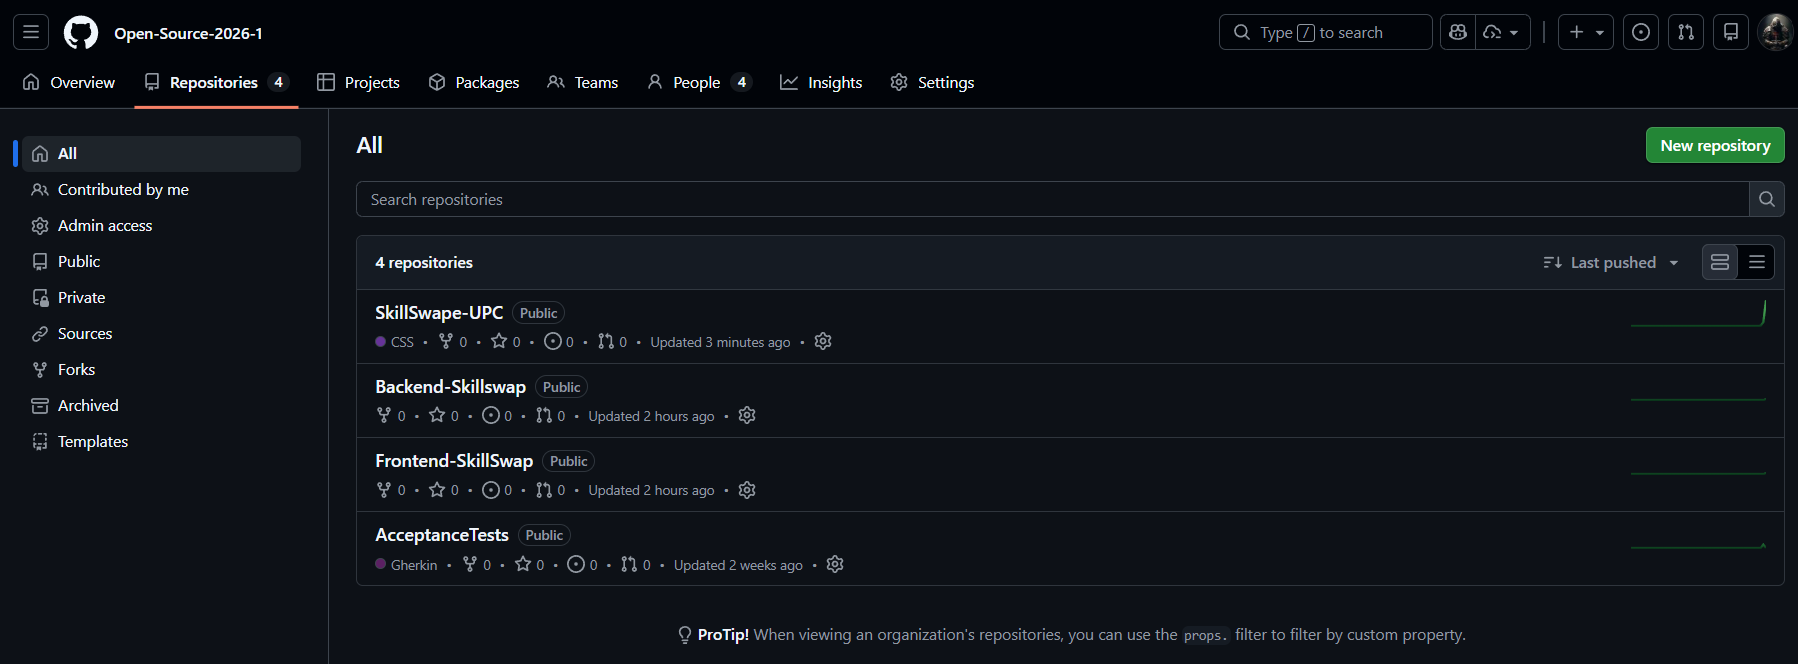
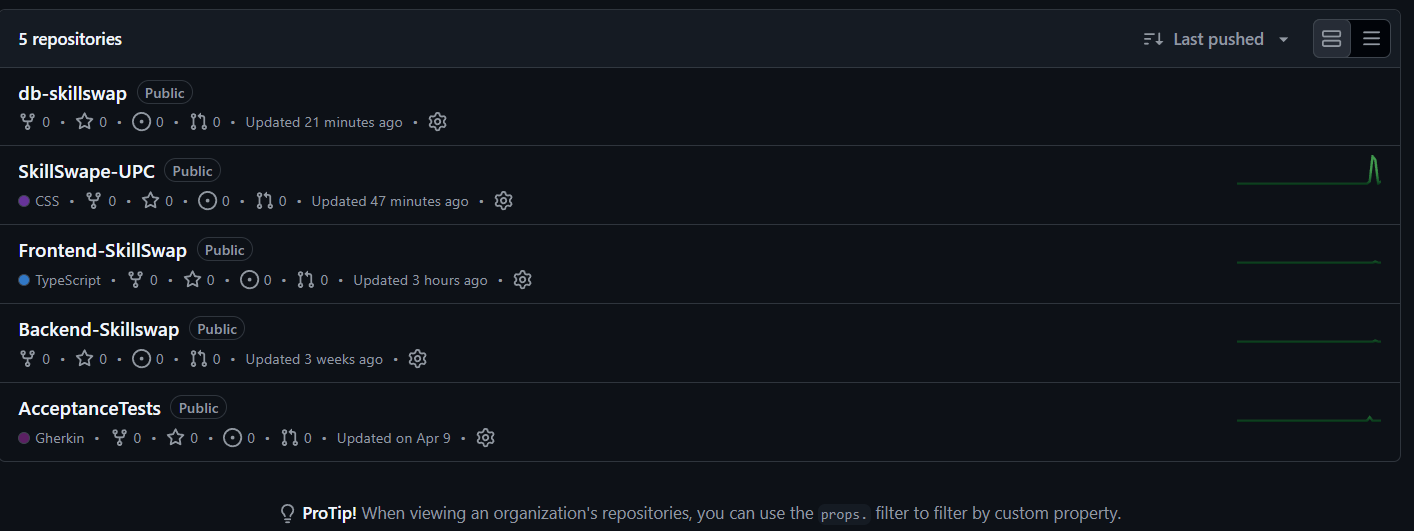
se actuliza md

diff --git a/1asi0729-11990-Skillswap-report-avn01.md b/1asi0729-11990-Skillswap-report-avn01.md
@@ -2428,13 +2428,15 @@ Para administrar el código fuente del proyecto, el equipo empleará Git como si
 #### Repositorios GitHub
 
 * **Landing Page:** Repositorio público para la página de presentación del producto. 
-  * Enlace: [https://github.com/Open-Source-2026-1/SkillSwape-UPC.git ](#)
+  * Enlace: https://github.com/Open-Source-2026-1/SkillSwape-UPC.git 
 * **Frontend Web Application:** Repositorio para la aplicación web transaccional (Desarrollada en Typescript/Angularr) donde interactúan los estudiantes y profesores.
-  * Enlace: *[https://github.com/Open-Source-2026-1/Frontend-SkillSwap.git]*
+  * Enlace: https://github.com/Open-Source-2026-1/Frontend-SkillSwap.git
 * **Web Services:**  Repositorio para la API RESTful desarrollada en Java con Spring Boot, incluyendo la implementación de controladores, servicios y repositorios, así como pruebas unitarias y de integración.
-  * Enlace: *[https://github.com/Open-Source-2026-1/Backend-Skillswap.git]*
+  * Enlace: https://github.com/Open-Source-2026-1/Backend-Skillswap.git
 * **Acceptance Test:** Repositorio en el que se encuentran los archivos (`.feature`) en formato Gherkin.
-  * Enlace: [https://github.com/Open-Source-2026-1/AcceptanceTests.git](#)
+  * Enlace: https://github.com/Open-Source-2026-1/AcceptanceTests.git
+* **Base de datos:** Repositorio en el que se encuentra el archivo json con la base de datos del proyecto.
+  * Enlace: https://github.com/Open-Source-2026-1/db-skillswap.git
 
 * **Open-Source-2026-1:** Enlace de la organización en el que se encuentran los repositorios
   * Enlace: [https://github.com/Open-Source-2026-1](#)
@@ -3045,12 +3047,12 @@ Esta sección detalla los aspectos principales de la reunión de planificación 
 | **Location**                           | Reunión virtual (Google Meet)  |
 | **Prepared By**                        | Alberca Saavedra, Victor Manuel  |
 | **Attendees (to planning meeting)**    | Alberca Saavedra, Victor Manuel / Komatsu Dueñas, David / Vargas Alarcón, Santiago Enrique / Becerra Ninahuanca, Luis Ángel / Pacheco Lavado, Rafael Agustín           |
-| **Sprint n – 1 Review Summary**        | Se completó exitosamente la Landing Page institucional de Skillswap, incluyendo soporte bilingüe y diseño responsivo.   |
-| **Sprint n – 1 Retrospective Summary** | El equipo acordó priorizar bounded contexts frontend desacoplados y trabajar con Fake APIs para acelerar el desarrollo visual.   |
+| **Sprint n – 2 Review Summary**        | Se completó exitosamente la Landing Page institucional de Skillswap, incluyendo soporte bilingüe y diseño responsivo.   |
+| **Sprint n – 2 Retrospective Summary** | El equipo acordó priorizar bounded contexts frontend desacoplados y trabajar con Fake APIs para acelerar el desarrollo visual.   |
 | **Sprint Goal & User Stories**         |      |
 | **Sprint 2 Goal**                      | Nuestro enfoque está en desarrollar las interfaces frontend de los bounded contexts principales de Skillswap mediante componentes reutilizables, tablas CRUD, formularios y datos mockeados. Creemos que esto permitirá validar la arquitectura visual del sistema y la experiencia de usuario antes de integrar lógica backend real. Esto se confirmará cuando los usuarios puedan navegar fluidamente entre los módulos Discovery, Workspace, Reputation, Moderation y Learning & Assessment utilizando Fake APIs y navegación SPA sin errores visuales. |
-| **Sprint 2 Velocity** | 34 Story Points |
-| **Sum of Story Points**| 34 |
+| **Sprint 2 Velocity** | 42 Story Points |
+| **Sum of Story Points**| 42 |
 
 
 *(Tabla 22.  Tabla de  Sprint Planning 2  - Elaboración propia.)*
@@ -3098,10 +3100,12 @@ Se presenta la tabla de Sprint 2 que logramos avanzar con el grupo:
 | **US14** | Create official Quiz                            | Academic Quality Assurance             |          High          |    5   |
 | **US16** | Solve interactive validation Quiz               | Academic Quality Assurance             |          High          |    5   |
 | **US17** | Rate and leave a review for the tutor           | Rating and Monetization                |         Medium         |    3   |
+| **US18** | Make a voluntary monetary donation              | Rating and Monetization                |         Medium         |    5   |
+| **US19** | View Virtual Wallet and balance                 | Rating and Monetization                |         Medium         |    3   |
 | **US21** | Cancel pending or scheduled reservation         | Rating and Monetization                |         Medium         |    2   |
 | **US24** | Report misconduct                               | Dashboard and Moderation               |         Medium         |    3   |
 | **US25** | Review and resolve academic disputes            | Dashboard and Moderation               |         Medium         |    3   |
-|          |                                                 |                                        | **Total Story Points** | **34** |
+|          |                                                 |                                        | **Total Story Points** | **42** |
 
 
 A continuación, se presenta una captura de pantalla del estado actual de nuestro tablero de control para el Sprint 2:
@@ -3118,16 +3122,18 @@ A continuación, se presenta una captura de pantalla del estado actual de nuestr
 | :------------- | :--------------------------------------------- | :------------------- | :------------------- | :--------------------------------------------- | :--------------------: | :-------------- | :---------- |
 | **User Story** |                                                | **Work-Item / Task** |                      |                                                |                        |                 |             |
 | **Id**         | **Title**                                      | **Id**               | **Title**            | **Description**                                | **Estimation (Hours)** | **Assigned To** | **Status**  |
-| **US06**       | Apply filters to search results                | T02                  | Filter Components    | Development of filter components               |          2 hr          | David           | DONE        |
-| **US08**       | Send tutoring reservation request              | T03                  | Reservation Form     | Form layout and modal creation                 |          2 hr          | Victor          | DONE        |
-| **US09**       | Accept or reject reservation request           | T04                  | Action Buttons       | Accept and reject buttons UI                   |          1 hr          | Victor           | TO DO        |
-| **US10**       | Asynchronous internal chat for the reservation | T05                  | Chat Interface       | Internal asynchronous chat UI                  |          3 hr          | Victor          | IN PROGRESS |
-| **US14**       | Create official Quiz                           | T06                  | Quiz Form            | Quiz creation form implementation              |          3 hr          | Rafael          | DONE        |
-| **US16**       | Solve interactive validation Quiz              | T07                  | Quiz Resolution UI   | Quiz solving interface                         |          3 hr          | David           | IN PROGRESS |
-| **US17**       | Rate and leave a review for the tutor          | T08                  | Rating System UI     | Star rating component implementation           |          2 hr          | Santiago        | DONE        |
-| **US21**       | Cancel pending or scheduled reservation        | T09                  | Cancel Button UI     | Reservation cancellation interface             |          2 hr          | Victor          | IN PROGRESS |
-| **US24**       | Report misconduct                              | T10                  | Report Form          | Misconduct report interface                    |          2 hr          | Luis          | DONE        |
-| **US25**       | Review and resolve academic disputes           | T11                  | Moderation Table     | Dispute table and details view                 |          2 hr          | Luis           | IN PROGRESS |
+| **US06**       | Apply filters to search results                | T02                  | Filter Components    | Development of filter components               |          2 hr          | David           | DONE                 |
+| **US08**       | Send tutoring reservation request              | T03                  | Reservation Form     | Form layout and modal creation                 |          2 hr          | Victor          | DONE                 |
+| **US09**       | Accept or reject reservation request           | T04                  | Action Buttons       | Accept and reject buttons UI                   |          1 hr          | Victor           | TO DO               |
+| **US10**       | Asynchronous internal chat for the reservation | T05                  | Chat Interface       | Internal asynchronous chat UI                  |          3 hr          | Victor          | IN PROGRESS          |
+| **US14**       | Create official Quiz                           | T06                  | Quiz Form            | Quiz creation form implementation              |          3 hr          | David          | DONE                  |
+| **US16**       | Solve interactive validation Quiz              | T07                  | Quiz Resolution UI   | Quiz solving interface                         |          3 hr          | David           | IN PROGRESS          |
+| **US17**       | Rate and leave a review for the tutor          | T08                  | Rating System UI     | Star rating component implementation           |          2 hr          | Santiago        | DONE                 |
+| **US18**       | Rate and leave a review for the tutor          | T08                  | Donation UI     | Star rating component implementation                |          2 hr          | Rafael        | IN PROGRESS              |
+| **US19**       | Rate and leave a review for the tutor          | T08                  | Donation UI    | Star rating component implementation                 |          2 hr          | Rafael        | IN PROGRESS              |
+| **US21**       | Cancel pending or scheduled reservation        | T09                  | Cancel Button UI     | Reservation cancellation interface             |          2 hr          | Victor          | IN PROGRESS          |
+| **US24**       | Report misconduct                              | T10                  | Report Form          | Misconduct report interface                    |          2 hr          | Luis          | DONE                   |
+| **US25**       | Review and resolve academic disputes           | T11                  | Moderation Table     | Dispute table and details view                 |          2 hr          | Luis           | IN PROGRESS           |
 
 
 
@@ -3160,12 +3166,12 @@ Cada integrante participó activamente en el desarrollo de componentes específi
 *(Tabla 25.  Tabla de  Development Evidence for Sprint Review - Elaboración propia.)*
 
 <figure style="text-align: center; margin-bottom: 40px;">
-  <img src="public/assets/images-doc/" alt="Historial de Commits" width="800" style="margin-bottom: 20px;">
+  <img src="public/assets/images-doc/sprint2-commit1.png" alt="Historial de Commits" width="800" style="margin-bottom: 20px;">
   <img src="public/assets/images-doc/" alt="Historial de Commits" width="800" style="margin-bottom: 20px;">
   <img src="public/assets/images-doc/" alt="Historial de Commits" width="800" style="margin-bottom: 20px;">
   <img src="public/assets/images-doc/" alt="Historial de Commits" width="800">
   <figcaption style="margin-top: 10px; font-style: italic;">
-    Figura 108. Historial de Commits - Elaboración propia. Nota: Estos son algunos de los commits realizados por los integrantes en sus respectivas ramas, siguiendo la convención de Conventional Commits.
+    Figura. Historial de Commits - Elaboración propia. Nota: Estos son algunos de los commits realizados por los integrantes en sus respectivas ramas, siguiendo la convención de Conventional Commits.
   </figcaption>
 </figure>
 
@@ -3337,6 +3343,8 @@ En conjunto, estas evidencias demuestran la disponibilidad del frontend de Skill
  LINK-Reputation SystemE: **https://github.com/Open-Source-2026-1/SkillSwape-UPC.git**
  
  LINK-Payment & WalletE: **https://github.com/Open-Source-2026-1/SkillSwape-UPC.git**
+
+**Enlace del repositorio de las db de los proyectos:** https://github.com/Open-Source-2026-1/db-skillswap.git 
 
 ---
 